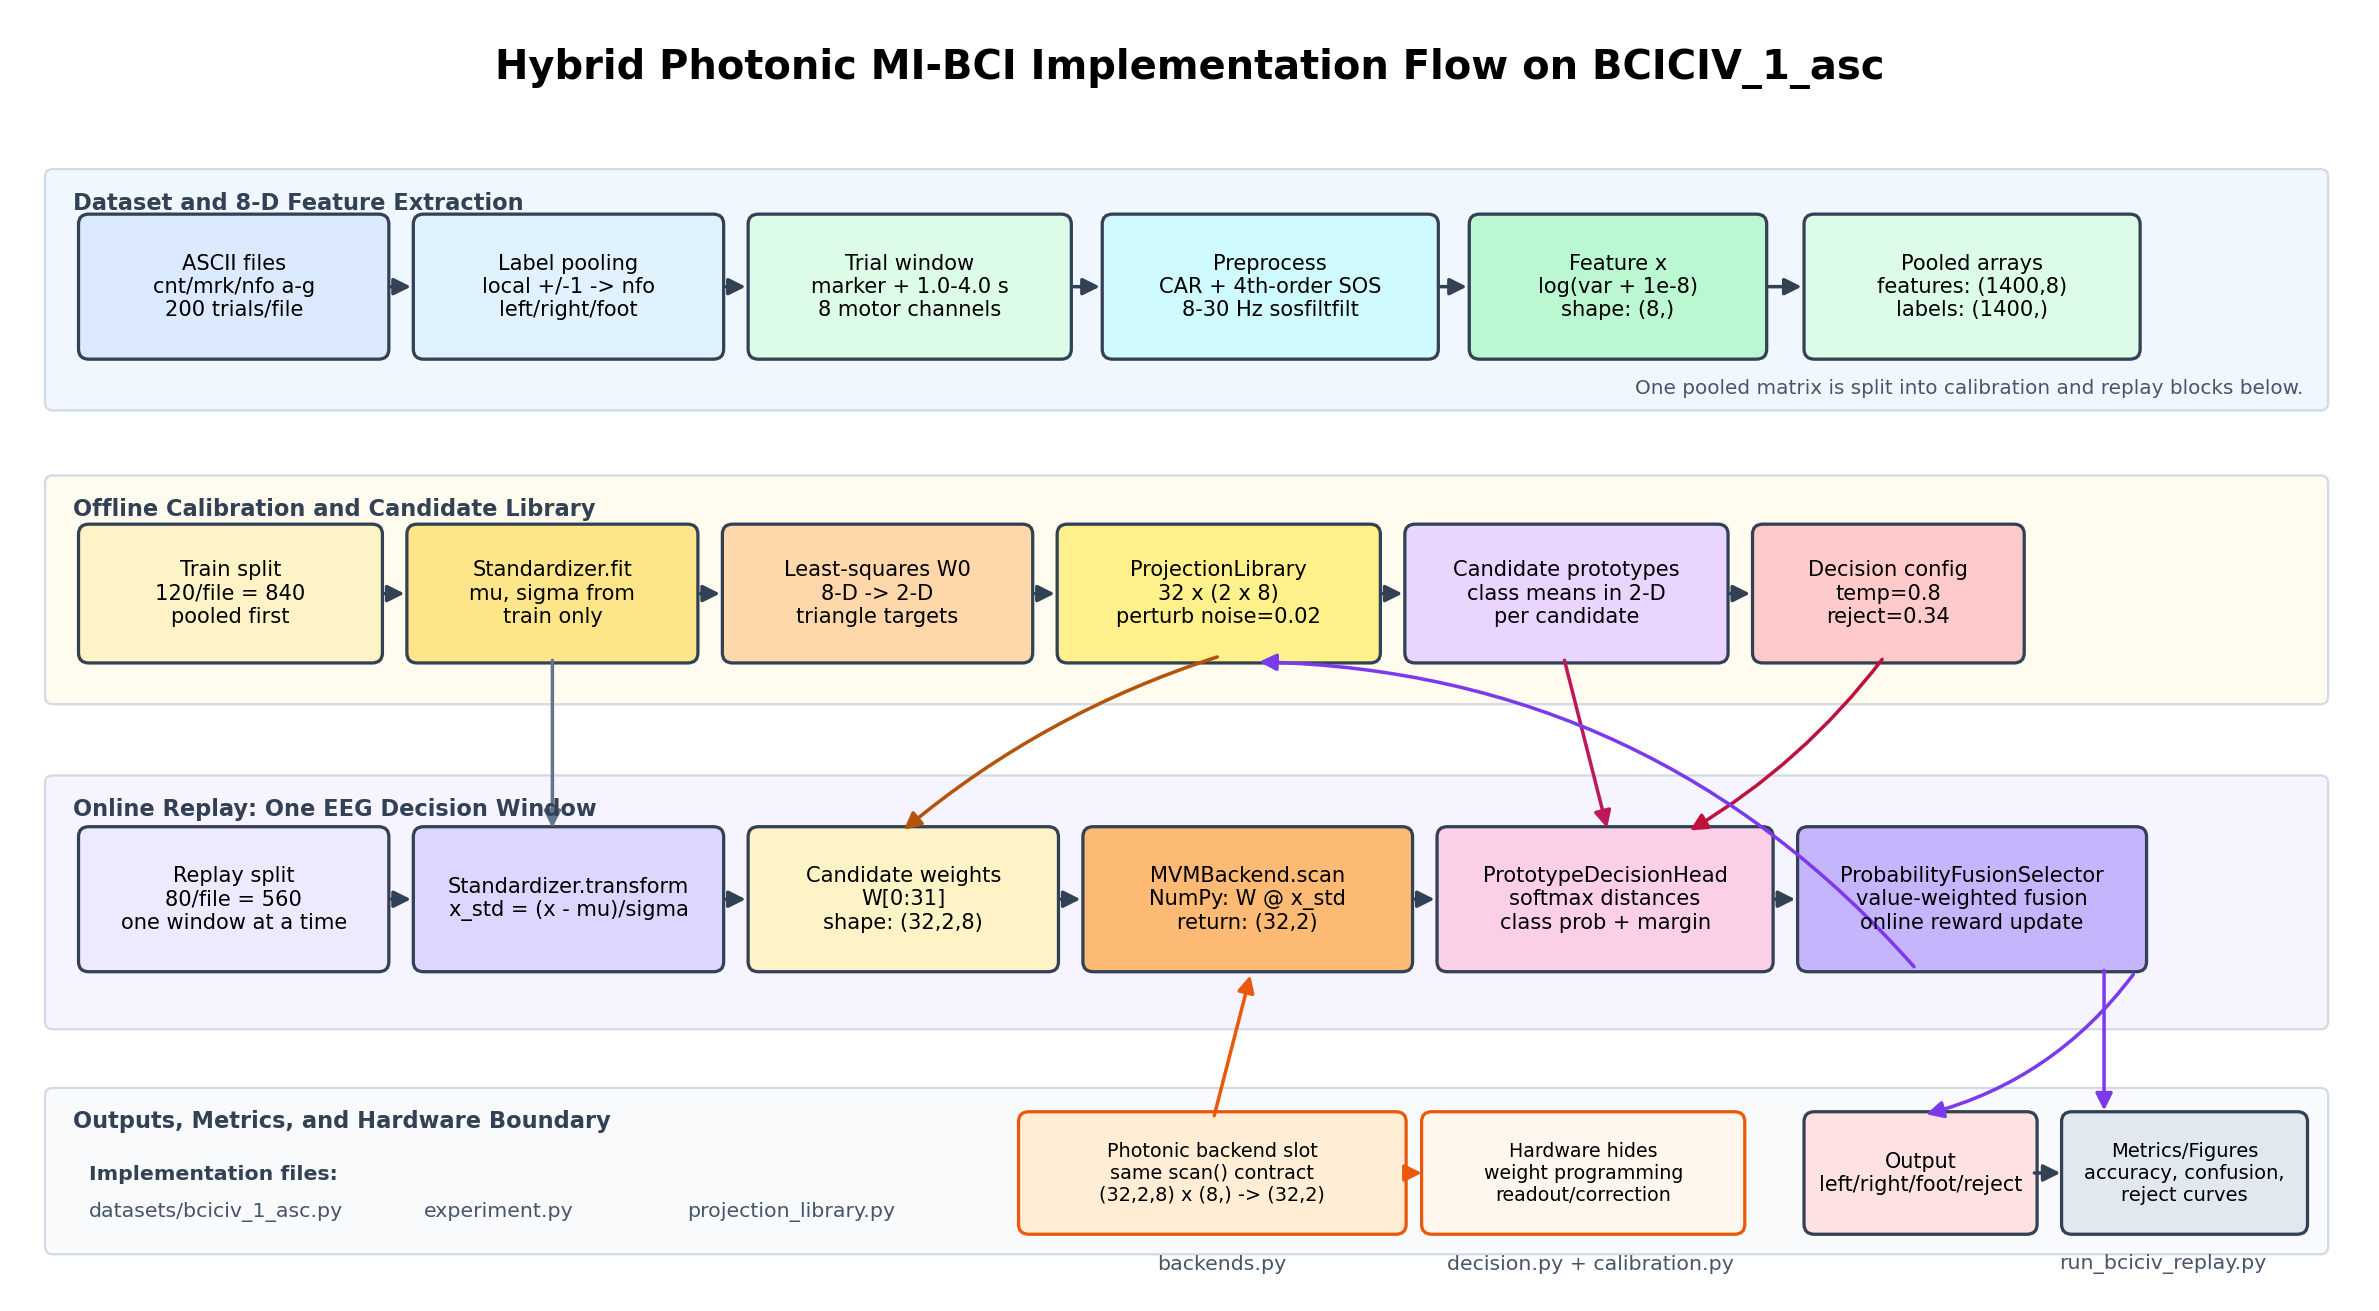
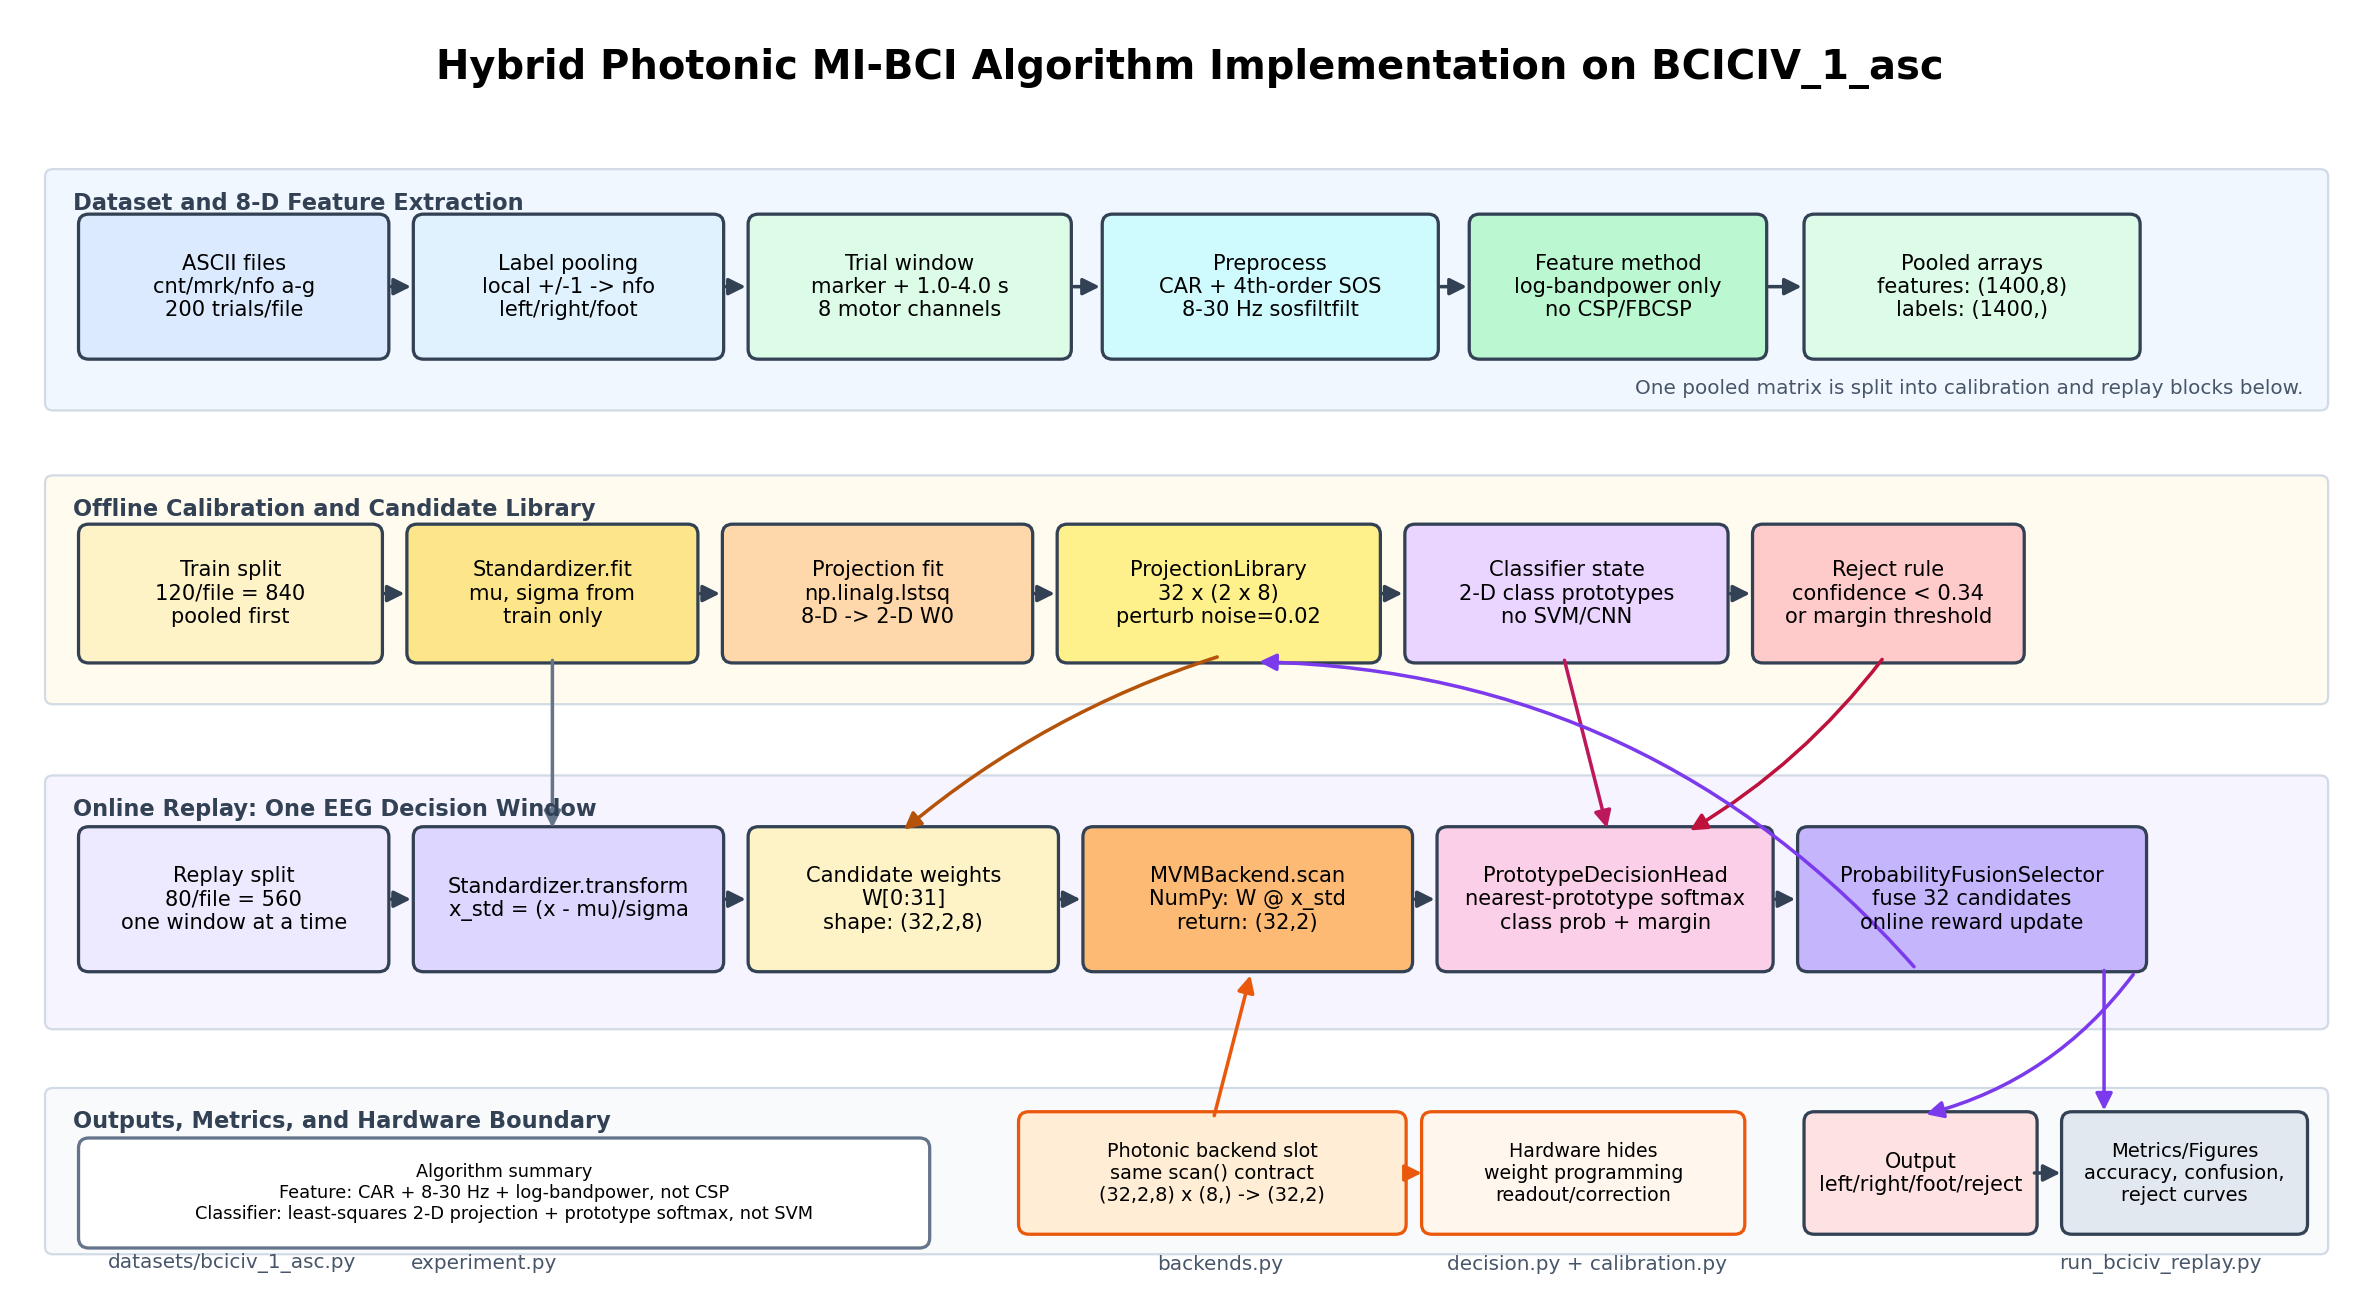
Clarify algorithm choices in system diagram

diff --git a/visualization/generate_bciciv_figures.py b/visualization/generate_bciciv_figures.py
@@ -128,7 +128,7 @@ def plot_system_block_diagram(output_dir: Path, formats: tuple[str, ...]) -> lis
     ax.text(
         9.1,
         9.8,
-        "Hybrid Photonic MI-BCI Implementation Flow on BCICIV_1_asc",
+        "Hybrid Photonic MI-BCI Algorithm Implementation on BCICIV_1_asc",
         ha="center",
         va="center",
         fontsize=16,
@@ -178,7 +178,7 @@ def plot_system_block_diagram(output_dir: Path, formats: tuple[str, ...]) -> lis
             "#cffafe",
         ),
         (
-            "Feature x\nlog(var + 1e-8)\nshape: (8,)",
+            "Feature method\nlog-bandpower only\nno CSP/FBCSP",
             11.35,
             7.55,
             2.15,
@@ -199,10 +199,10 @@ def plot_system_block_diagram(output_dir: Path, formats: tuple[str, ...]) -> lis
     calibration_boxes = [
         ("Train split\n120/file = 840\npooled first", 0.55, 5.12, 2.2, 0.95, "#fef3c7"),
         ("Standardizer.fit\nmu, sigma from\ntrain only", 3.1, 5.12, 2.1, 0.95, "#fde68a"),
-        ("Least-squares W0\n8-D -> 2-D\ntriangle targets", 5.55, 5.12, 2.25, 0.95, "#fed7aa"),
+        ("Projection fit\nnp.linalg.lstsq\n8-D -> 2-D W0", 5.55, 5.12, 2.25, 0.95, "#fed7aa"),
         ("ProjectionLibrary\n32 x (2 x 8)\nperturb noise=0.02", 8.15, 5.12, 2.35, 0.95, "#fef08a"),
-        ("Candidate prototypes\nclass means in 2-D\nper candidate", 10.85, 5.12, 2.35, 0.95, "#e9d5ff"),
-        ("Decision config\ntemp=0.8\nreject=0.34", 13.55, 5.12, 1.95, 0.95, "#fecaca"),
+        ("Classifier state\n2-D class prototypes\nno SVM/CNN", 10.85, 5.12, 2.35, 0.95, "#e9d5ff"),
+        ("Reject rule\nconfidence < 0.34\nor margin threshold", 13.55, 5.12, 1.95, 0.95, "#fecaca"),
     ]
     _draw_box_chain(ax, calibration_boxes)
 
@@ -211,8 +211,8 @@ def plot_system_block_diagram(output_dir: Path, formats: tuple[str, ...]) -> lis
         ("Standardizer.transform\nx_std = (x - mu)/sigma", 3.15, 2.65, 2.25, 1.0, "#ddd6fe"),
         ("Candidate weights\nW[0:31]\nshape: (32,2,8)", 5.75, 2.65, 2.25, 1.0, "#fef3c7"),
         ("MVMBackend.scan\nNumPy: W @ x_std\nreturn: (32,2)", 8.35, 2.65, 2.4, 1.0, "#fdba74"),
-        ("PrototypeDecisionHead\nsoftmax distances\nclass prob + margin", 11.1, 2.65, 2.45, 1.0, "#fbcfe8"),
-        ("ProbabilityFusionSelector\nvalue-weighted fusion\nonline reward update", 13.9, 2.65, 2.55, 1.0, "#c4b5fd"),
+        ("PrototypeDecisionHead\nnearest-prototype softmax\nclass prob + margin", 11.1, 2.65, 2.45, 1.0, "#fbcfe8"),
+        ("ProbabilityFusionSelector\nfuse 32 candidates\nonline reward update", 13.9, 2.65, 2.55, 1.0, "#c4b5fd"),
     ]
     _draw_box_chain(ax, online_boxes)
 
@@ -280,17 +280,26 @@ def plot_system_block_diagram(output_dir: Path, formats: tuple[str, ...]) -> lis
     _arrow(ax, 16.2, 2.62, 16.2, 1.42, color="#7c3aed")
     _arrow(ax, 14.75, 2.58, 9.6, 5.05, color="#7c3aed", connectionstyle="arc3,rad=0.22")
 
-    notes = [
-        ("Implementation files:", 0.55, 0.95, "#334155", "bold"),
-        ("datasets/bciciv_1_asc.py", 0.55, 0.65, "#475569", "normal"),
-        ("experiment.py", 3.15, 0.65, "#475569", "normal"),
-        ("projection_library.py", 5.2, 0.65, "#475569", "normal"),
-        ("backends.py", 8.85, 0.23, "#475569", "normal"),
-        ("decision.py + calibration.py", 11.1, 0.23, "#475569", "normal"),
-        ("run_bciciv_replay.py", 15.85, 0.23, "#475569", "normal"),
+    _rounded_box(
+        ax,
+        0.55,
+        0.44,
+        6.45,
+        0.72,
+        "Algorithm summary\nFeature: CAR + 8-30 Hz + log-bandpower, not CSP\nClassifier: least-squares 2-D projection + prototype softmax, not SVM",
+        "#ffffff",
+        edge="#64748b",
+        fontsize=7.1,
+    )
+    file_notes = [
+        ("datasets/bciciv_1_asc.py", 0.7, 0.24),
+        ("experiment.py", 3.05, 0.24),
+        ("backends.py", 8.85, 0.23),
+        ("decision.py + calibration.py", 11.1, 0.23),
+        ("run_bciciv_replay.py", 15.85, 0.23),
     ]
-    for text, x, y, color, weight in notes:
-        ax.text(x, y, text, ha="left", va="center", fontsize=8.2, color=color, weight=weight)
+    for text, x, y in file_notes:
+        ax.text(x, y, text, ha="left", va="center", fontsize=8.0, color="#475569")
 
     return _save_figure(fig, output_dir, "bciciv_system_block_diagram", formats)
 